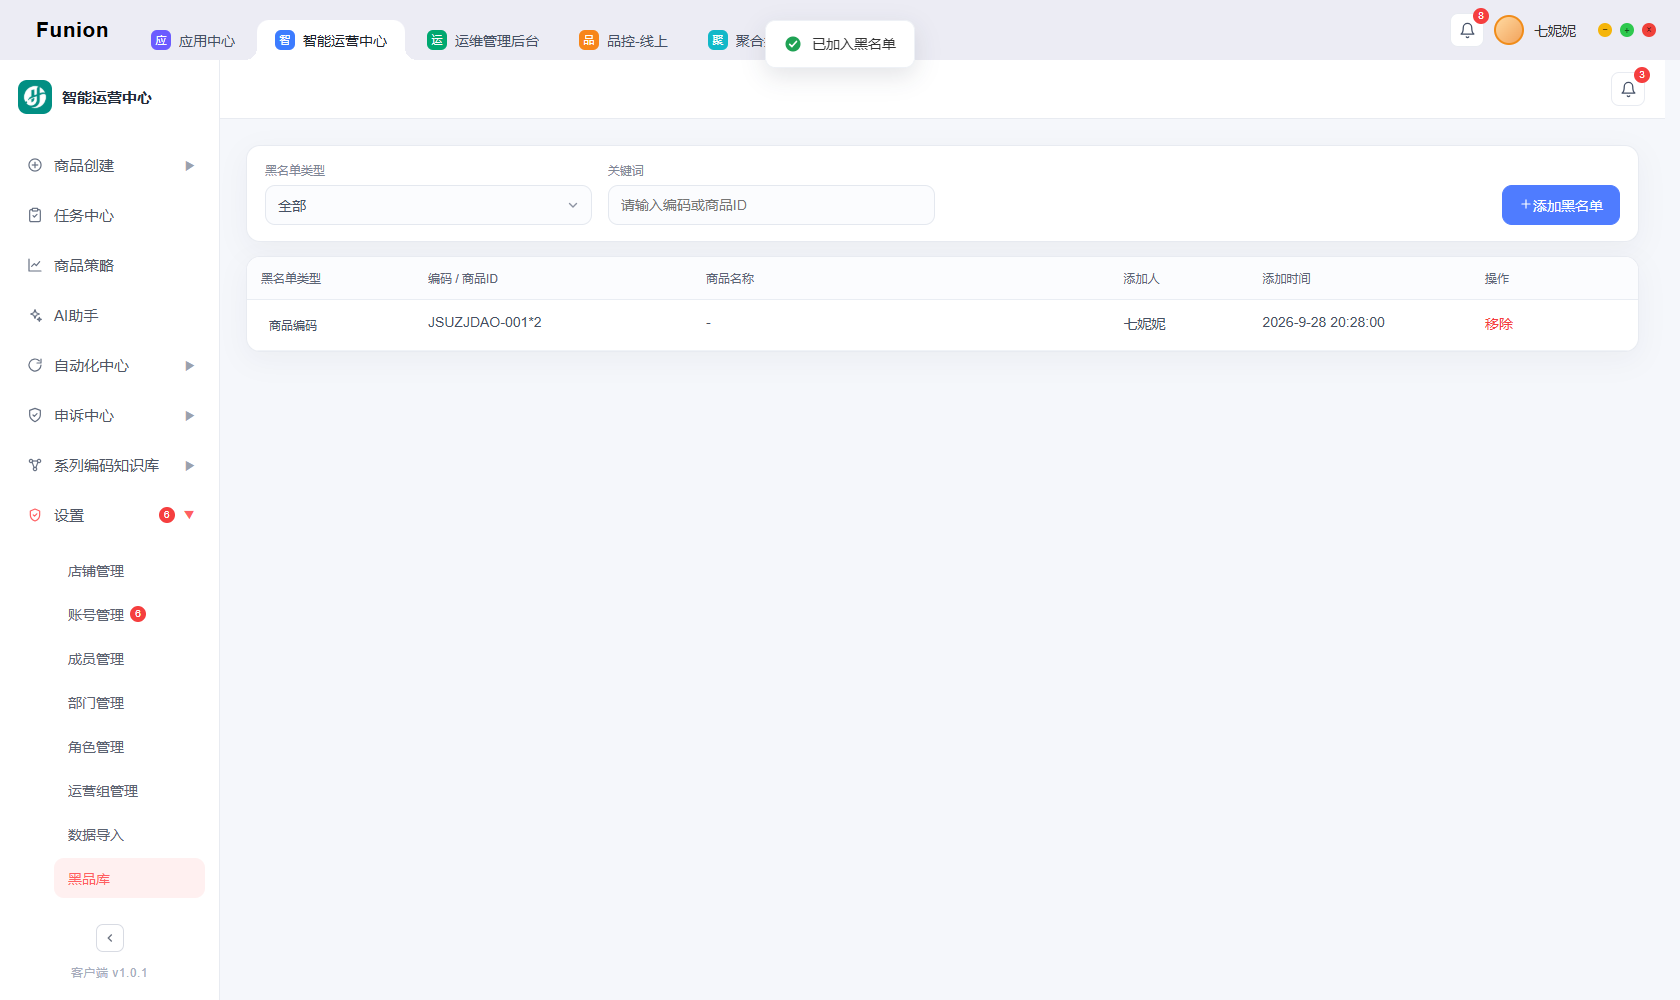
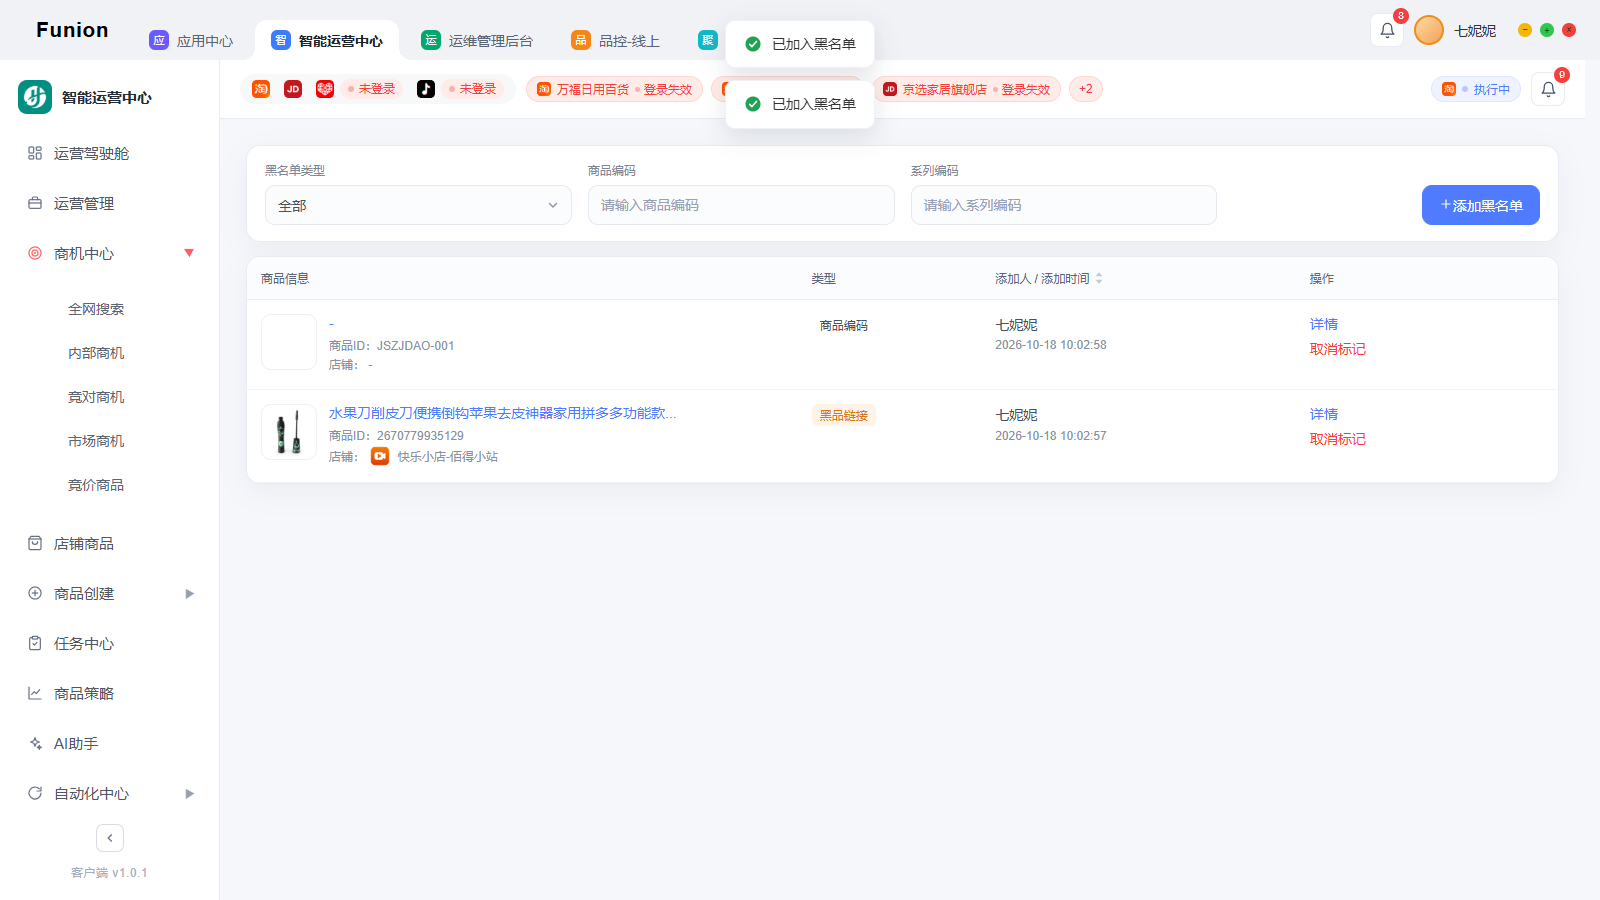
feat: 黑品库列表定稿四列（商品信息含图/名称/商品ID/店铺、类型「黑品链接」、添加人/添加时间、操作详情+取消标记二次确认），查询收敛为类型+商品编码+系列编码即效筛选；同步运营中心内部商机数据与权限样式

diff --git a/src/pages/permission/BlacklistPage.vue b/src/pages/permission/BlacklistPage.vue
@@ -5,7 +5,7 @@ import Ellipsis from '../../components/Ellipsis.vue';
 import Modal from '../../components/Modal.vue';
 import SortTh from '../../components/SortTh.vue';
 import { pushToast } from '../../components/toast';
-import { internalProducts } from '../ops-center/data';
+import { PLATFORM_LOGO, internalProducts, platformOfStore, productSeriesCode } from '../ops-center/data';
 import { BL_TYPES, addBlacklist, blacklist, hasBlacklist, removeBlacklist } from '../ops-center/blacklistData';
 import type { BlEntry, BlType } from '../ops-center/blacklistData';
 import './style.css';
@@ -13,19 +13,38 @@ import './style.css';
 /* =========================================================
    设置 › 黑品库（商品编码 / 系列编码 / 内部商机链接商品ID 黑名单）
    命中黑名单的商品发布到店铺时发布任务失败，任务列表展示失败原因
-   筛选：类型 / 关键词（即效）；添加：弹窗（类型 + 编码或内部商机）；移除：二次确认
+   列表四列：商品信息（图/名称/商品ID/店铺）· 类型 · 添加人/添加时间 · 操作（详情/取消标记）
+   筛选：类型 / 商品编码 / 系列编码（即效）；添加：弹窗（类型 + 编码或内部商机）；取消标记：二次确认
    ========================================================= */
 
-/* ---------- 筛选（即效，无查询按钮） ---------- */
+/* ---------- 类型展示：内部商机即「黑品链接」（商品链接维度黑名单） ---------- */
+const typeLabel = (t: BlType) => (t === '内部商机' ? '黑品链接' : t);
+const typeOpts = computed<BubbleOption[]>(() => ['全部', ...BL_TYPES].map((t) => (t === '全部' ? { value: t, label: '全部' } : { value: t, label: typeLabel(t as BlType) })));
+const blTypeOpts = computed<BubbleOption[]>(() => BL_TYPES.map((t) => ({ value: t, label: typeLabel(t) })));
+
+/* ---------- 商品回显：按类型把黑名单条目解析为内部商机商品行（图/名称/商品ID/店铺） ---------- */
+const productOf = (r: BlEntry) => {
+  if (r.type === '系列编码') return internalProducts.find((p) => productSeriesCode(p.pid) === r.value) ?? null;
+  return internalProducts.find((p) => p.pid === r.value) ?? null;
+};
+const codeOf = (r: BlEntry) => productOf(r)?.pid ?? (r.type === '商品编码' ? r.value : '');
+const seriesOf = (r: BlEntry) => {
+  const p = productOf(r);
+  return p ? productSeriesCode(p.pid) : r.type === '系列编码' ? r.value : '';
+};
+
+/* ---------- 筛选（即效，无查询按钮）：类型 + 商品编码 + 系列编码 ---------- */
 const fType = ref<'全部' | BlType>('全部');
-const fKw = ref('');
-const typeOpts = computed(() => ['全部', ...BL_TYPES]);
+const fCode = ref('');
+const fSeries = ref('');
 const filtered = computed(() => {
   const out = blacklist.filter((r) => {
     if (fType.value !== '全部' && r.type !== fType.value) return false;
-    const kw = fKw.value.trim();
-    if (!kw) return true;
-    return r.value.includes(kw) || r.name.includes(kw);
+    const fc = fCode.value.trim();
+    if (fc && !codeOf(r).includes(fc) && !r.value.includes(fc)) return false;
+    const fs = fSeries.value.trim();
+    if (fs && !seriesOf(r).includes(fs) && !r.value.includes(fs)) return false;
+    return true;
   });
   /* 添加时间列头排序：addTime 为非补零本地格式，按解析时间戳比较 */
   if (sortDir.value !== 'none') {
@@ -77,19 +96,22 @@ const submitAdd = () => {
   addOpen.value = false;
 };
 
-/* ---------- 移除：二次确认 ---------- */
+/* ---------- 详情弹窗 ---------- */
+const detailRow = ref<BlEntry | null>(null);
+
+/* ---------- 取消标记：二次确认 ---------- */
 const delRow = ref<BlEntry | null>(null);
 const confirmDel = () => {
   if (!delRow.value) return;
   removeBlacklist(delRow.value.id);
-  pushToast('已移出黑名单');
+  pushToast('已取消黑品标记');
   delRow.value = null;
 };
 </script>
 
 <template>
   <div class="sg-page bl-page">
-    <!-- 筛选卡：类型 + 关键词条件即效，添加入口同排右对齐 -->
+    <!-- 筛选卡：类型 + 商品编码 + 系列编码条件即效，添加入口同排右对齐 -->
     <div class="sg-filter">
       <div class="sg-grid">
         <div class="sg-field">
@@ -97,8 +119,12 @@ const confirmDel = () => {
           <BubbleSelect class-name="sg-select" :value="fType" :options="typeOpts" @change="(v: string) => (fType = v as BlType | '全部')" />
         </div>
         <div class="sg-field">
-          <label>关键词</label>
-          <input v-model="fKw" class="sg-input" placeholder="请输入编码或商品ID" />
+          <label>商品编码</label>
+          <input v-model="fCode" class="sg-input" placeholder="请输入商品编码" />
+        </div>
+        <div class="sg-field">
+          <label>系列编码</label>
+          <input v-model="fSeries" class="sg-input" placeholder="请输入系列编码" />
         </div>
         <div class="sg-actions">
           <button type="button" class="sg-btn primary" @click="openAdd">
@@ -109,30 +135,46 @@ const confirmDel = () => {
       </div>
     </div>
 
-    <!-- 黑名单列表 -->
+    <!-- 黑名单列表：商品信息 / 类型 / 添加人·添加时间 / 操作 -->
     <div class="sg-card">
       <div :style="{ overflow: 'auto' }">
         <table class="sg-table bl-table">
           <thead>
             <tr>
-              <th>黑名单类型</th>
-              <th>编码 / 商品ID</th>
-              <th>商品名称</th>
-              <th>添加人</th>
-              <SortTh label="添加时间" :state="sortState()" @sort="onSort" />
+              <th>商品信息</th>
+              <th>类型</th>
+              <SortTh label="添加人 / 添加时间" :state="sortState()" @sort="onSort" />
               <th>操作</th>
             </tr>
           </thead>
           <tbody>
             <tr v-for="r in filtered" :key="r.id">
-              <td><span class="bl-type" :class="typeCls(r.type)">{{ r.type }}</span></td>
-              <td>{{ r.value }}</td>
-              <td><Ellipsis :text="r.name || '-'" /></td>
-              <td>{{ r.addBy }}</td>
-              <td>{{ r.addTime }}</td>
+              <td>
+                <div class="ib-product">
+                  <img v-if="productOf(r)" class="ib-thumb" :src="productOf(r)!.thumb" alt="" />
+                  <div v-else class="ib-thumb bl-thumb-ph"></div>
+                  <div class="bl-pinfo">
+                    <div class="ib-pname"><Ellipsis :text="productOf(r)?.pname || r.name || '-'" /></div>
+                    <div class="ib-meta">商品ID：{{ productOf(r)?.pid || r.value }}</div>
+                    <div class="ib-meta">
+                      店铺：
+                      <span v-if="productOf(r)" class="store-logo">
+                        <img :src="PLATFORM_LOGO[platformOfStore(productOf(r)!.storeMeta.text)]" alt="" />
+                      </span>
+                      {{ productOf(r)?.storeMeta.text || '-' }}
+                    </div>
+                  </div>
+                </div>
+              </td>
+              <td><span class="bl-type" :class="typeCls(r.type)">{{ typeLabel(r.type) }}</span></td>
+              <td>
+                <div class="bl-who">{{ r.addBy }}</div>
+                <div class="ib-meta">{{ r.addTime }}</div>
+              </td>
               <td>
                 <div class="sg-acts">
-                  <a class="sg-link danger" href="javascript:void(0)" @click.prevent="delRow = r">移除</a>
+                  <a class="sg-link" href="javascript:void(0)" @click.prevent="detailRow = r">详情</a>
+                  <a class="sg-link danger" href="javascript:void(0)" @click.prevent="delRow = r">取消标记</a>
                 </div>
               </td>
             </tr>
@@ -153,14 +195,14 @@ const confirmDel = () => {
         <div class="di-form">
           <div class="di-field">
             <label>黑名单类型</label>
-            <BubbleSelect :value="aType" :options="BL_TYPES" @change="(v: string) => (aType = v as BlType)" />
+            <BubbleSelect class-name="sg-select" :value="aType" :options="blTypeOpts" @change="(v: string) => (aType = v as BlType)" />
           </div>
           <div v-if="aType === '内部商机'" class="di-field">
             <label>内部商机（链接商品ID）</label>
-            <BubbleSelect :value="aOpp" :options="oppOpts" searchable @change="(v: string) => (aOpp = v)" />
+            <BubbleSelect class-name="sg-select" :value="aOpp" :options="oppOpts" searchable @change="(v: string) => (aOpp = v)" />
           </div>
           <div v-else class="di-field">
-            <label>{{ aType }}</label>
+            <label>{{ typeLabel(aType) }}</label>
             <input v-model="aCode" class="sg-input" :placeholder="aType === '商品编码' ? '请输入商品编码' : '请输入系列编码'" />
           </div>
           <div class="di-field">
@@ -174,16 +216,55 @@ const confirmDel = () => {
         </template>
       </Modal>
 
-      <!-- 移除二次确认 -->
-      <Modal v-if="delRow" title="移除黑名单" sub="移除后该商品可正常发布到店铺" @close="delRow = null">
+      <!-- 黑品详情 -->
+      <Modal v-if="detailRow" title="黑品详情" :sub="productOf(detailRow)?.pname || detailRow.name || detailRow.value" @close="detailRow = null">
         <div class="di-form">
           <div class="di-field">
-            <div class="di-val">确认将「{{ delRow.type }}：{{ delRow.value }}」移出黑名单？</div>
+            <label>商品信息</label>
+            <div class="ib-product bl-detail-prod">
+              <img v-if="productOf(detailRow)" class="ib-thumb" :src="productOf(detailRow)!.thumb" alt="" />
+              <div v-else class="ib-thumb bl-thumb-ph"></div>
+              <div class="bl-pinfo">
+                <div class="ib-pname"><Ellipsis :text="productOf(detailRow)?.pname || detailRow.name || '-'" /></div>
+                <div class="ib-meta">商品ID：{{ productOf(detailRow)?.pid || detailRow.value }}</div>
+                <div class="ib-meta">
+                  店铺：
+                  <span v-if="productOf(detailRow)" class="store-logo">
+                    <img :src="PLATFORM_LOGO[platformOfStore(productOf(detailRow)!.storeMeta.text)]" alt="" />
+                  </span>
+                  {{ productOf(detailRow)?.storeMeta.text || '-' }}
+                </div>
+              </div>
+            </div>
+          </div>
+          <div class="di-field">
+            <label>类型</label>
+            <div><span class="bl-type" :class="typeCls(detailRow.type)">{{ typeLabel(detailRow.type) }}</span></div>
+          </div>
+          <div class="di-field">
+            <label>{{ detailRow.type === '系列编码' ? '系列编码' : '商品编码' }}</label>
+            <div class="di-val">{{ detailRow.value }}</div>
+          </div>
+          <div class="di-field">
+            <label>添加人 / 添加时间</label>
+            <div class="di-val">{{ detailRow.addBy }}　{{ detailRow.addTime }}</div>
+          </div>
+        </div>
+        <template #foot>
+          <button class="btn" @click="detailRow = null">关闭</button>
+        </template>
+      </Modal>
+
+      <!-- 取消标记二次确认 -->
+      <Modal v-if="delRow" title="取消标记" sub="取消后该商品可正常发布到店铺" @close="delRow = null">
+        <div class="di-form">
+          <div class="di-field">
+            <div class="di-val">确认取消「{{ typeLabel(delRow.type) }}：{{ delRow.value }}」的黑品标记？</div>
           </div>
         </div>
         <template #foot>
           <button class="btn" @click="delRow = null">取消</button>
-          <button class="btn danger" @click="confirmDel">确认移除</button>
+          <button class="btn danger" @click="confirmDel">确认取消</button>
         </template>
       </Modal>
     </div>

diff --git a/src/pages/permission/style.css b/src/pages/permission/style.css
@@ -1409,9 +1409,17 @@
 
 /* 列表列宽：六列固定布局，编码列与名称列加宽 */
 .ops-center .bl-table { table-layout: fixed; }
-.ops-center .bl-table th:nth-child(1) { width: 12%; }
-.ops-center .bl-table th:nth-child(2) { width: 20%; }
-.ops-center .bl-table th:nth-child(3) { width: 30%; }
-.ops-center .bl-table th:nth-child(4) { width: 10%; }
-.ops-center .bl-table th:nth-child(5) { width: 16%; }
-.ops-center .bl-table th:nth-child(6) { width: 12%; }
+.ops-center .bl-table th:nth-child(1) { width: 42%; }
+.ops-center .bl-table th:nth-child(2) { width: 14%; }
+.ops-center .bl-table th:nth-child(3) { width: 24%; }
+.ops-center .bl-table th:nth-child(4) { width: 20%; }
+/* 商品信息单元格：复用内部商机 .ib-product 三行语言（图 + 名称 + 商品ID + 店铺平台标），列内不撑最小宽 */
+.ops-center .bl-table .ib-product,
+.ops-center .bl-detail-prod { min-width: 0; }
+.ops-center .bl-table .ib-pname,
+.ops-center .bl-detail-prod .ib-pname { max-width: none; margin-bottom: 4px; }
+/* 无商品回显（编码类未命中商品行）：灰底占位图块保持单元格同构 */
+.ops-center .bl-thumb-ph { background: var(--color-fill); border-color: var(--color-border); }
+.ops-center .bl-pinfo { min-width: 0; flex: 1; }
+/* 添加人 / 添加时间合并列：人名正文 + 时间次级灰行 */
+.ops-center .bl-who { font-size: var(--fs-base); color: var(--color-text-2); line-height: 1.6; }

diff --git a/src/pages/ops-center/data.ts b/src/pages/ops-center/data.ts
@@ -322,9 +322,15 @@ export const internalProducts: ProductRow[] = [
   },
 ];
 
+/** 内部商机商品的系列编码（运营管理「系列编码」列同源口径）：XL-220 + 行序；黑品库按系列编码检索/回显商品复用 */
+export const productSeriesCode = (pid: string): string => {
+  const i = internalProducts.findIndex((p) => p.pid === pid);
+  return i >= 0 ? `XL-220${i + 1}` : '';
+};
+
 /** 运营管理（待上架 / ID数据）表格数据：与原 HTML 一致，音响行缩略图保留 height=440 原样；附带查询条件列演示值 */
 const OM_EXTRAS: Record<string, string>[] = internalProducts.map((row, i) => ({
-  系列编码: `XL-220${i + 1}`,
+  系列编码: productSeriesCode(row.pid),
   /* 销售额：按近7日销量×客单价演示口径折算 */
   销售额: `¥${Math.round(Number(row.week7) * 39.9).toLocaleString('zh-CN')}`,
   运营组: ['运营一组', '运营二组', '运营三组'][i % 3],
